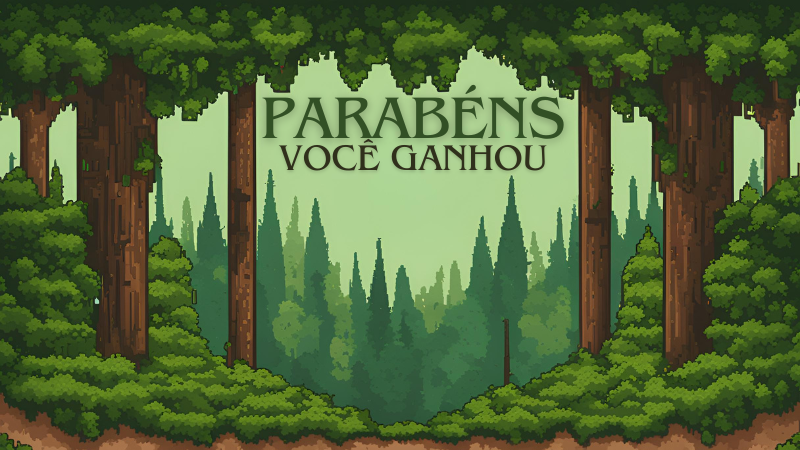
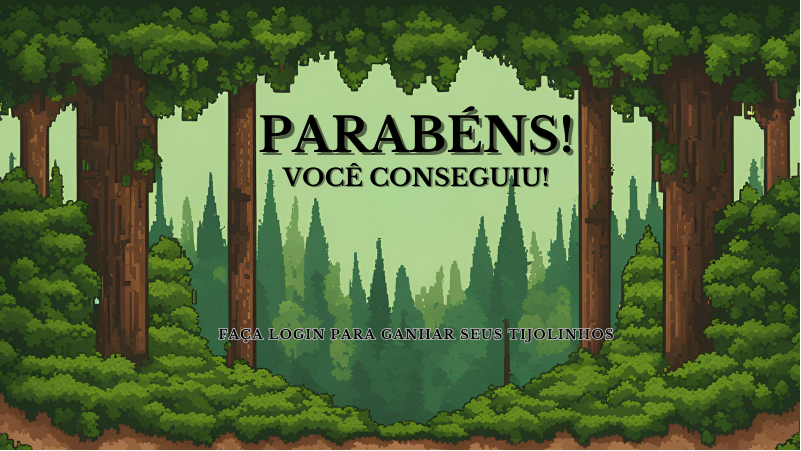
cutscenes mano q desespero

diff --git a/cliente/js/cutscene.js b/cliente/js/cutscene.js
@@ -1,0 +1,108 @@
+import Phaser from 'phaser'
+
+export default class Cutscene extends Phaser.Scene {
+  constructor () {
+    super('cutscene')
+    this.currentCutscene = 0 // Índice da cutscene atual
+    this.cutscenes = [
+      { image: 'cutscene1', text: 'Bem-vindos, jovens \nguardiões. Há muito \ntempo, a floresta de \nEldorya era um \nlugar de vida, \nmagia e harmonia.' },
+      { image: 'cutscene2', text: 'Mas uma força sombria \nse ergueu das \nprofundezas, corroendo \na essência da \nfloresta e ameaçando \ntodo o nosso mundo.' },
+      { image: 'cutscene3', text: 'Vocês foram escolhidos \npara restaurar o \nequilíbrio e deverão \ntrabalhar juntos para \nlivrar a floresta do \nmal que se espalha.' },
+      { image: 'cutscene4', text: 'Ao longo da missão, \nencontrarão cristais \npor toda Eldorya. \nReúnam todos, pois \nserá crucial para o \nequilíbrio da floresta.' },
+      { image: 'cutscene5', text: 'Além disso, as três \nessências da floresta \ntambém foram perdidas. \nAo serem coletadas, \nfortalecerão vocês \npara enfrentar \nnovos desafios.' },
+      { image: 'cutscene6', text: 'Infelizmente, criaturas \nda floresta foram \ncorroídas pelas trevas. \nAntes inofensivas, \nagora estão sob a \ninfluência do mal e \nse tornaram hostis.' },
+      { image: 'cutscene7', text: 'Ao enfrentá-las, \nlembrem que estarão \nlibertando elas desse \ntormento e ajudando \na restaurar o \nequilíbrio da floresta.' },
+      { image: 'cutscene8', text: 'Cuidado! A floresta \nestá cheia de perigos \nalém das criaturas \ncorrompidas. Buracos \nprofundos e armadilhas \nestão pelo caminho.' },
+      { image: 'cutscene9', text: 'E lembrem-se, a \ncooperação entre vocês \nserá a chave para \no sucesso. O \ndestino da floresta \nestá em suas mãos.' },
+      { image: 'cutscene10', text: 'Agora, vão, e que \na luz de Eldorya \nguie seus passos.' }
+    ]
+    this.textAnimationActive = false // Flag para verificar se a animação de texto está ativa
+  }
+
+  preload () {
+    // Carregar todas as imagens necessárias
+    this.load.image('cutscene1', './assets/cutscenes/CUTSCENE1.png')
+    this.load.image('cutscene2', './assets/cutscenes/CUTSCENE2.png')
+    this.load.image('cutscene3', './assets/cutscenes/CUTSCENE3.png')
+    this.load.image('cutscene4', './assets/cutscenes/CUTSCENE4.png')
+    this.load.image('cutscene5', './assets/cutscenes/CUTSCENE5.png')
+    this.load.image('cutscene6', './assets/cutscenes/CUTSCENE6.png')
+    this.load.image('cutscene7', './assets/cutscenes/CUTSCENE7.png')
+    this.load.image('cutscene8', './assets/cutscenes/CUTSCENE8.png')
+    this.load.image('cutscene9', './assets/cutscenes/CUTSCENE9.png')
+    this.load.image('cutscene10', './assets/cutscenes/CUTSCENE10.png')
+    this.load.image('nada', './assets/nada.png')
+  }
+
+  create () {
+    console.log('Cena criada')
+
+    this.nadaImage = this.add.image(400, 225, 'nada').setInteractive()
+    this.textObject = this.add.text(170, 270, '', {
+      fontFamily: '"Press Start 2P"',
+      fontSize: '12px',
+      fill: '#000000',
+      align: 'left',
+      wordWrap: { width: 800 },
+      lineSpacing: 7
+    }).setDepth(2) // Ajusta a profundidade do texto para garantir que está visível
+
+    this.nadaImage.on('pointerdown', () => {
+      if (this.textAnimationActive) {
+        return // Não avança se a animação de texto estiver ativa
+      }
+
+      if (this.currentCutscene === this.cutscenes.length - 1) {
+        this.scene.start('mapa') // Inicia a cena de mapa
+        this.scene.stop('cutscene') // Para a cena de cutscene atual
+      } else {
+        this.currentCutscene = (this.currentCutscene + 1) % this.cutscenes.length
+        console.log('Mudando para a cutscene:', this.currentCutscene)
+        this.updateCutscene()
+      }
+    })
+
+    this.updateCutscene()
+  }
+
+  updateCutscene () {
+    // Remove a imagem da cutscene anterior
+    if (this.cutsceneImage) {
+      this.cutsceneImage.destroy()
+    }
+
+    // Remove o texto da cutscene anterior e limpa o evento de tempo
+    if (this.textAnimationActive) {
+      this.time.removeAllEvents()
+      this.textObject.setText('')
+      this.textAnimationActive = false
+    }
+
+    // Adiciona a nova imagem de cutscene
+    this.cutsceneImage = this.add.image(400, 225, this.cutscenes[this.currentCutscene].image).setDepth(1)
+
+    // Atualiza o texto
+    const text = this.cutscenes[this.currentCutscene].text
+    console.log('Texto Atual:', text) // Verifica o texto atual
+    this.textObject.setText('') // Certifique-se de limpar o texto anterior
+
+    let i = 0
+    this.textAnimationActive = true // Marca que a animação de texto está ativa
+    this.time.addEvent({
+      delay: 60,
+      callback: () => {
+        if (i < text.length) {
+          this.textObject.text += text[i]
+          i++
+        } else {
+          this.time.removeAllEvents() // Para o evento quando o texto estiver completo
+          this.textAnimationActive = false // Marca que a animação de texto está concluída
+          console.log('Texto Completo:', this.textObject.text) // Verifica o texto completo
+        }
+      },
+      loop: true
+    })
+  }
+
+  update () { }
+}

diff --git a/cliente/sw.js b/cliente/sw.js
@@ -39,6 +39,16 @@ const precacheResources = [
   './assets/blocovazio5.png',
   './assets/botao.png',
   './assets/buraco.png',
+  './assets/cutscenes/CUTSCENE1.png',
+  './assets/cutscenes/CUTSCENE2.png',
+  './assets/cutscenes/CUTSCENE3.png',
+  './assets/cutscenes/CUTSCENE4.png',
+  './assets/cutscenes/CUTSCENE5.png',
+  './assets/cutscenes/CUTSCENE6.png',
+  './assets/cutscenes/CUTSCENE7.png',
+  './assets/cutscenes/CUTSCENE8.png',
+  './assets/cutscenes/CUTSCENE9.png',
+  './assets/cutscenes/CUTSCENE10.png',
   './assets/finalFeliz.png',
   './assets/finalTriste.png',
   './assets/fundo.png',
@@ -66,6 +76,7 @@ const precacheResources = [
   './assets/simbolos/seta-direita.png',
   './assets/simbolos/seta-esquerda.png',
   './assets/vida.png',
+  './assets/nada.png',
   './index.css',
   './index.html',
   './index.js',

diff --git a/cliente/js/finalTriste.js b/cliente/js/finalTriste.js
@@ -6,17 +6,11 @@ export default class finalTriste extends Phaser.Scene {
   }
 
   preload () {
-    this.load.image('fundo', './assets/fundo.png')
+    this.load.image('finalTriste', './assets/finalTriste.png')
   }
 
   create () {
-    this.add.image(400, 225, 'fundo')
-    // Adiciona o texto de fim sem crédito e a possibilidade de reiniciar o jogo
-    this.add.text(100, 50, 'Você não conseguiu!', {
-      fontSize: '32px',
-      fill: '#fff',
-      fontFamily: 'Courier New'
-    })
+    this.add.image(400, 225, 'finalTriste')
       .setInteractive()
       .on('pointerdown', () => {
         window.location.reload()

diff --git a/cliente/js/index.js b/cliente/js/index.js
@@ -3,6 +3,7 @@ import io from 'socket.io-client'
 import config from './config.js'
 import abertura from './abertura.js'
 import sala from './sala.js'
+import cutscene from './cutscene.js'
 import mapa from './mapa.js'
 import finalFeliz from './finalFeliz.js'
 import finalTriste from './finalTriste.js'
@@ -39,6 +40,7 @@ class Game extends Phaser.Game {
 
     this.scene.add('abertura', abertura)
     this.scene.add('sala', sala)
+    this.scene.add('cutscene', cutscene)
     this.scene.add('mapa', mapa)
     this.scene.add('finalFeliz', finalFeliz)
     this.scene.add('finalTriste', finalTriste)

diff --git a/cliente/index.css b/cliente/index.css
@@ -12,4 +12,16 @@ html {
     -ms-transform: translate(-50%, -50%);
     -webkit-transform: translate(-50%, -50%);
   }
+    @font-face {
+      font-family: 'Press Start 2P';
+      src: url('https://fonts.googleapis.com/css2?family=Press+Start+2P&display=swap');
+    }
   
+    .game-text {
+      font-family: 'Press Start 2P';
+      font-size: 12px;
+      color: #ffffff;
+      word-wrap: break-word;
+      line-height: 1.5;
+      /* Ajuste o espaçamento entre linhas se necessário */
+    }

diff --git a/cliente/js/finalFeliz.js b/cliente/js/finalFeliz.js
@@ -7,11 +7,11 @@ export default class finalFeliz extends Phaser.Scene {
   }
 
   preload () {
-    this.load.image('fundo', './assets/fundo.png')
+    this.load.image('finalFeliz', './assets/finalFeliz.png')
   }
 
   create () {
-    this.add.image(400, 225, 'fundo')
+    this.add.image(400, 225, 'finalFeliz')
     // Adiciona o texto de parabéns e a possibilidade de reiniciar o jogo
     this.mensagem = this.add.text(100, 225, 'Parabéns! Você conseguiu!', {
       fontSize: '32px',

diff --git a/cliente/index.html b/cliente/index.html
@@ -28,6 +28,9 @@
   <link rel="apple-touch-icon" sizes="512x512" href="./assets/logo/512.png" />
 
   <link rel="stylesheet" type="text/css" href="./index.css" />
+  <link href="https://fonts.googleapis.com/css2?family=Press+Start+2P&display=swap" rel="stylesheet">
+  
+  <!-- Adicionando a fonte -->
   <!-- <script type="text/javascript">
     if ("serviceWorker" in navigator) {
       navigator.serviceWorker

diff --git a/cliente/js/sala.js b/cliente/js/sala.js
@@ -75,7 +75,7 @@ export default class sala extends Phaser.Scene {
 
         // Para a cena atual e inicia a cena do mapa
         this.scene.stop('sala')
-        this.scene.start('mapa')
+        this.scene.start('cutscene')
       } else if (jogadores.primeiro) {
         // Se o primeiro jogador já estiver conectado, aguarda o segundo
         this.mensagem.setText('Aguardando segundo jogador...')
